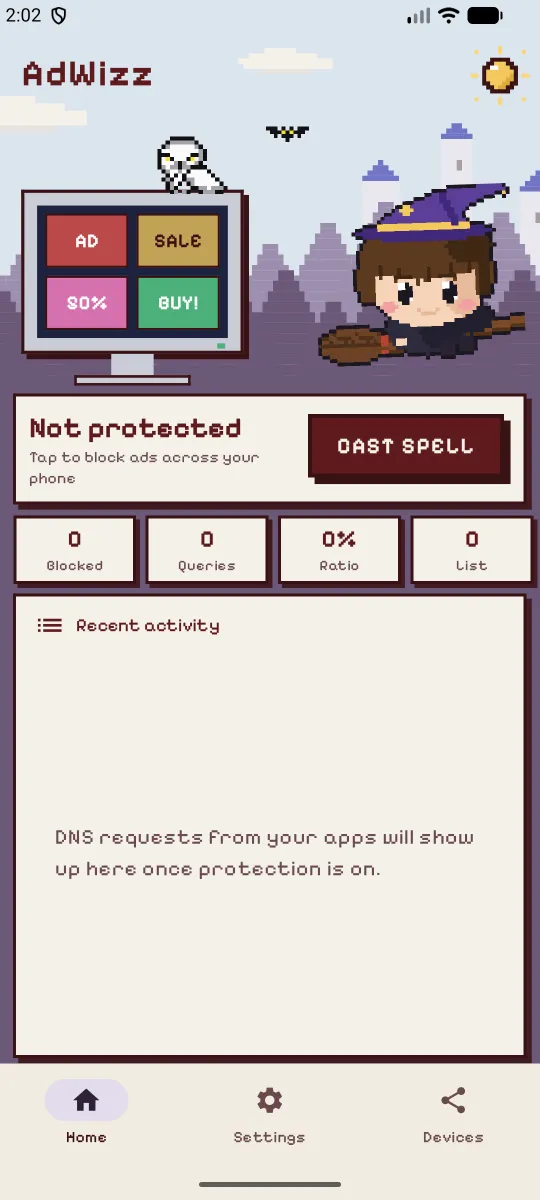
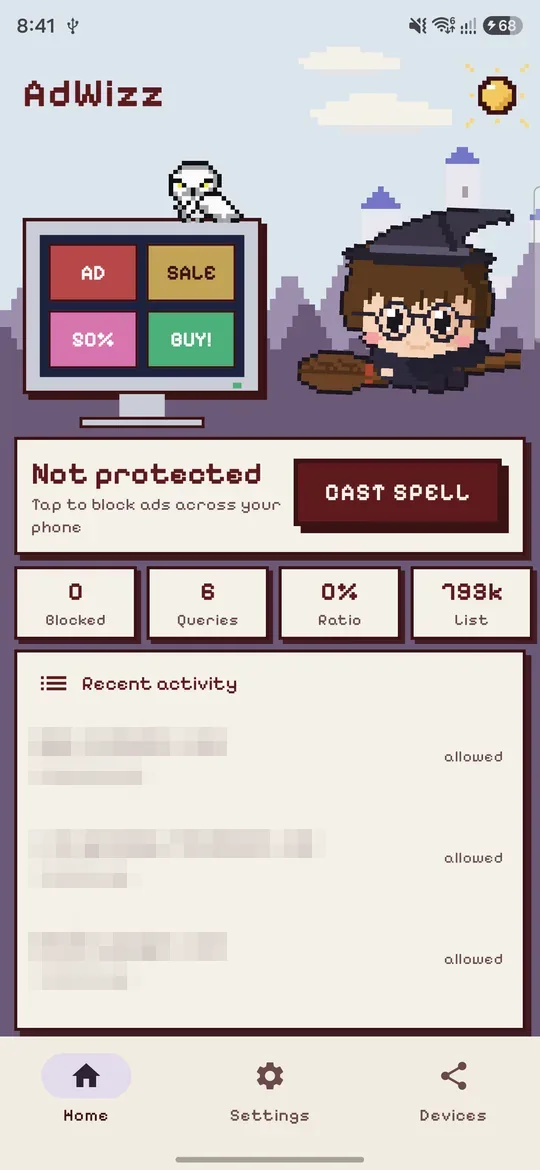
Remove Performance Monitoring, refresh screenshots, bump to 1.3.0
- Drop Firebase Performance: release APK 2.14 MB -> 1.93 MB. Analytics and
  Crashlytics stay; privacy text updated.
- New screenshots from a Galaxy S24 Ultra with the new wizard; the Recent
  activity rows are pixelated so no real look-ups are published. The capture
  script now uses the bottom bar and also takes the Reels & Shorts shot.

diff --git a/docs/index.html b/docs/index.html
@@ -30,7 +30,7 @@
   <meta name="twitter:image" content="https://chiragkushwaha.github.io/AdWizz/img/og.png">
   <link rel="manifest" href="manifest.webmanifest">
   <link rel="preload" href="fonts/pixelify-sans.woff2" as="font" type="font/woff2" crossorigin>
-  <script type="application/ld+json">[{"@context":"https://schema.org","@type":"SoftwareApplication","name":"AdWizz","description":"Free ad blocker for Android that blocks ads, pop-ups, redirects and trackers in every app using an on-device DNS filter, with an optional Instagram Reels and YouTube Shorts blocker. No root needed.","applicationCategory":"UtilitiesApplication","applicationSubCategory":"Ad blocker","operatingSystem":"Android 7.0 or later","url":"https://chiragkushwaha.github.io/AdWizz/","downloadUrl":"https://github.com/ChiragKushwaha/AdWizz/releases/latest/download/AdWizz.apk","installUrl":"https://github.com/ChiragKushwaha/AdWizz/releases/latest/download/AdWizz.apk","fileSize":"2 MB","softwareVersion":"1.2.1","image":"https://chiragkushwaha.github.io/AdWizz/img/og.png","screenshot":["https://chiragkushwaha.github.io/AdWizz/screenshots/home-light.webp","https://chiragkushwaha.github.io/AdWizz/screenshots/spell.webp","https://chiragkushwaha.github.io/AdWizz/screenshots/home-dark.webp","https://chiragkushwaha.github.io/AdWizz/screenshots/settings.webp","https://chiragkushwaha.github.io/AdWizz/screenshots/focus.webp","https://chiragkushwaha.github.io/AdWizz/screenshots/devices.webp"],"offers":{"@type":"Offer","price":"0","priceCurrency":"USD"},"author":{"@type":"Person","name":"Chirag Kushwaha","url":"https://github.com/ChiragKushwaha"},"license":"https://github.com/ChiragKushwaha/AdWizz/blob/main/LICENSE","isAccessibleForFree":true,"codeRepository":"https://github.com/ChiragKushwaha/AdWizz","keywords":"ad blocker for Android, block ads in apps, no root ad blocker, DNS ad blocker, pop-up blocker, tracker blocker, block Instagram Reels, block YouTube Shorts"},{"@context":"https://schema.org","@type":"FAQPage","mainEntity":[{"@type":"Question","name":"Why isn't it on the Play Store?","acceptedAnswer":{"@type":"Answer","text":"Google Play doesn't allow apps that block ads in other apps. That's why ad blockers like this are distributed directly. Every release here is built from the open-source code on GitHub and signed with the same key, and Android refuses updates signed by anyone else."}},{"@type":"Question","name":"It says \"App not installed\"","acceptedAnswer":{"@type":"Answer","text":"Your phone already has a copy of AdWizz signed with a different key, usually a test build. Uninstall it first (Settings → Apps → AdWizz → Uninstall), then open the downloaded APK again. You only need to do this once; later updates install normally."}},{"@type":"Question","name":"Is it really a VPN? Does my traffic go somewhere?","acceptedAnswer":{"@type":"Answer","text":"It uses Android's VPN feature only to see DNS look-ups (the \"phone book\" of the internet) on your own device. Ad and tracker names get a \"doesn't exist\" answer; everything else goes straight to your chosen DNS server. Your browsing never passes through anyone else's server."}},{"@type":"Question","name":"Why do some YouTube, Instagram or Prime Video ads still show?","acceptedAnswer":{"@type":"Answer","text":"Those ads come from the same servers as the videos and posts themselves (streaming apps like Prime Video and JioHotstar stitch the ad into the video stream), so blocking them would break the app. Every DNS-based blocker has this limit. AdWizz already blocks their separate ad and tracking servers."}},{"@type":"Question","name":"Why is there an empty space where an ad was?","acceptedAnswer":{"@type":"Answer","text":"The app reserved room for the ad before trying to load it. AdWizz stops the ad from arriving, but it can't change another app's layout, so some apps leave the gap."}},{"@type":"Question","name":"How does the Reels & Shorts blocker work?","acceptedAnswer":{"@type":"Answer","text":"Reels and Shorts come from the same servers as the rest of Instagram and YouTube, so DNS can't block them. Instead, a small add-on, AdWizz Reels Blocker, uses Android's Accessibility service to check which screen those apps are showing and presses Back when it's a short-video player. AdWizz installs it for you when you turn the switch on. It's a separate app because Google Play Protect blocks downloaded apps that can use Accessibility, and this way AdWizz itself installs normally. If Play Protect blocks the add-on, AdWizz shows how to install it. It only watches those apps, doesn't read what's on screen, and keeps nothing."}},{"@type":"Question","name":"Ads still show in my browser","acceptedAnswer":{"@type":"Answer","text":"Check that Android's Private DNS is set to Off or Automatic, and that Chrome's \"Use secure DNS\" isn't set to a custom provider. AdWizz shows a warning if Private DNS is bypassing it."}},{"@type":"Question","name":"Can it protect devices on my hotspot?","acceptedAnswer":{"@type":"Answer","text":"Android never routes hotspot traffic through a VPN, but AdWizz's Devices screen shows a QR code that sets up ad-blocking DNS on iPhones, Macs and other devices in a few taps."}}]},{"@context":"https://schema.org","@type":"WebSite","name":"AdWizz","url":"https://chiragkushwaha.github.io/AdWizz/"}]</script>
+  <script type="application/ld+json">[{"@context":"https://schema.org","@type":"SoftwareApplication","name":"AdWizz","description":"Free ad blocker for Android that blocks ads, pop-ups, redirects and trackers in every app using an on-device DNS filter, with an optional Instagram Reels and YouTube Shorts blocker. No root needed.","applicationCategory":"UtilitiesApplication","applicationSubCategory":"Ad blocker","operatingSystem":"Android 7.0 or later","url":"https://chiragkushwaha.github.io/AdWizz/","downloadUrl":"https://github.com/ChiragKushwaha/AdWizz/releases/latest/download/AdWizz.apk","installUrl":"https://github.com/ChiragKushwaha/AdWizz/releases/latest/download/AdWizz.apk","fileSize":"2 MB","softwareVersion":"1.3.0","image":"https://chiragkushwaha.github.io/AdWizz/img/og.png","screenshot":["https://chiragkushwaha.github.io/AdWizz/screenshots/home-light.webp","https://chiragkushwaha.github.io/AdWizz/screenshots/spell.webp","https://chiragkushwaha.github.io/AdWizz/screenshots/home-dark.webp","https://chiragkushwaha.github.io/AdWizz/screenshots/settings.webp","https://chiragkushwaha.github.io/AdWizz/screenshots/focus.webp","https://chiragkushwaha.github.io/AdWizz/screenshots/devices.webp"],"offers":{"@type":"Offer","price":"0","priceCurrency":"USD"},"author":{"@type":"Person","name":"Chirag Kushwaha","url":"https://github.com/ChiragKushwaha"},"license":"https://github.com/ChiragKushwaha/AdWizz/blob/main/LICENSE","isAccessibleForFree":true,"codeRepository":"https://github.com/ChiragKushwaha/AdWizz","keywords":"ad blocker for Android, block ads in apps, no root ad blocker, DNS ad blocker, pop-up blocker, tracker blocker, block Instagram Reels, block YouTube Shorts"},{"@context":"https://schema.org","@type":"FAQPage","mainEntity":[{"@type":"Question","name":"Why isn't it on the Play Store?","acceptedAnswer":{"@type":"Answer","text":"Google Play doesn't allow apps that block ads in other apps. That's why ad blockers like this are distributed directly. Every release here is built from the open-source code on GitHub and signed with the same key, and Android refuses updates signed by anyone else."}},{"@type":"Question","name":"It says \"App not installed\"","acceptedAnswer":{"@type":"Answer","text":"Your phone already has a copy of AdWizz signed with a different key, usually a test build. Uninstall it first (Settings → Apps → AdWizz → Uninstall), then open the downloaded APK again. You only need to do this once; later updates install normally."}},{"@type":"Question","name":"Is it really a VPN? Does my traffic go somewhere?","acceptedAnswer":{"@type":"Answer","text":"It uses Android's VPN feature only to see DNS look-ups (the \"phone book\" of the internet) on your own device. Ad and tracker names get a \"doesn't exist\" answer; everything else goes straight to your chosen DNS server. Your browsing never passes through anyone else's server."}},{"@type":"Question","name":"Why do some YouTube, Instagram or Prime Video ads still show?","acceptedAnswer":{"@type":"Answer","text":"Those ads come from the same servers as the videos and posts themselves (streaming apps like Prime Video and JioHotstar stitch the ad into the video stream), so blocking them would break the app. Every DNS-based blocker has this limit. AdWizz already blocks their separate ad and tracking servers."}},{"@type":"Question","name":"Why is there an empty space where an ad was?","acceptedAnswer":{"@type":"Answer","text":"The app reserved room for the ad before trying to load it. AdWizz stops the ad from arriving, but it can't change another app's layout, so some apps leave the gap."}},{"@type":"Question","name":"How does the Reels & Shorts blocker work?","acceptedAnswer":{"@type":"Answer","text":"Reels and Shorts come from the same servers as the rest of Instagram and YouTube, so DNS can't block them. Instead, a small add-on, AdWizz Reels Blocker, uses Android's Accessibility service to check which screen those apps are showing and presses Back when it's a short-video player. AdWizz installs it for you when you turn the switch on. It's a separate app because Google Play Protect blocks downloaded apps that can use Accessibility, and this way AdWizz itself installs normally. If Play Protect blocks the add-on, AdWizz shows how to install it. It only watches those apps, doesn't read what's on screen, and keeps nothing."}},{"@type":"Question","name":"Ads still show in my browser","acceptedAnswer":{"@type":"Answer","text":"Check that Android's Private DNS is set to Off or Automatic, and that Chrome's \"Use secure DNS\" isn't set to a custom provider. AdWizz shows a warning if Private DNS is bypassing it."}},{"@type":"Question","name":"Can it protect devices on my hotspot?","acceptedAnswer":{"@type":"Answer","text":"Android never routes hotspot traffic through a VPN, but AdWizz's Devices screen shows a QR code that sets up ad-blocking DNS on iPhones, Macs and other devices in a few taps."}}]},{"@context":"https://schema.org","@type":"WebSite","name":"AdWizz","url":"https://chiragkushwaha.github.io/AdWizz/"}]</script>
   <style>@font-face{font-family:"Pixelify Sans";font-style:normal;font-weight:400 700;font-display:swap;src:url(fonts/pixelify-sans.woff2) format("woff2")}:root{--sky:#dce5ee;--cloud:#f4f1ea;--panel:#f4f1ea;--ink:#3a1215;--text:#3a1215;--muted:#6a4a4d;--primary:#5e1a1d;--on-primary:#f4f1ea;--trees:#6b5878;--trees-far:#9c8fae;--star:transparent}@media (prefers-color-scheme:dark){:root:not([data-theme="light"]){--sky:#121733;--cloud:#262d58;--panel:#1d2347;--ink:#070914;--text:#f1e9da;--muted:#b8b3cc;--primary:#f2c14e;--on-primary:#2a1a05;--trees:#241e38;--trees-far:#35304f;--star:#f4e3a1}}:root[data-theme="dark"]{--sky:#121733;--cloud:#262d58;--panel:#1d2347;--ink:#070914;--text:#f1e9da;--muted:#b8b3cc;--primary:#f2c14e;--on-primary:#2a1a05;--trees:#241e38;--trees-far:#35304f;--star:#f4e3a1}*{box-sizing:border-box}html{scroll-behavior:smooth}body{margin:0;background:var(--sky);color:var(--text);font:17px/1.55 "Pixelify Sans",system-ui,sans-serif;-webkit-font-smoothing:none;overflow-x:hidden}a{color:var(--primary)}h1,h2,h3{line-height:1.1;margin:0 0 .5em}h2{font-size:clamp(26px,6vw,38px);color:var(--primary)}main,.top,footer{max-width:1040px;margin:0 auto;padding:0 16px;position:relative}section{margin:56px 0}.sky{position:fixed;inset:0;z-index:-1;pointer-events:none;background:var(--sky)}.cloud{position:absolute;width:120px;height:24px;background:var(--cloud);box-shadow:16px -12px 0 var(--cloud),48px -20px 0 var(--cloud),80px -10px 0 var(--cloud);animation:drift 60s linear infinite}.c1{top:12%;left:-10%}.c2{top:34%;left:30%;animation-duration:80s;transform:scale(.8)}.c3{top:58%;left:65%;animation-duration:70s}@keyframes drift{from{translate:-20vw 0}to{translate:120vw 0}}.stars{position:absolute;inset:0 0 40% 0;background-image:radial-gradient(var(--star) 1.5px,transparent 2px),radial-gradient(var(--star) 1.5px,transparent 2px);background-size:97px 113px,151px 89px;background-position:13px 7px,61px 41px}.top{display:flex;align-items:center;gap:16px;padding-top:18px;padding-bottom:8px}.brand{font-weight:700;font-size:30px;color:var(--primary);text-decoration:none}nav{display:flex;gap:18px;margin-left:auto}nav a{color:var(--text);text-decoration:none;text-transform:uppercase;font-weight:600;font-size:15px}nav a:hover{color:var(--primary)}.celestial{width:44px;height:44px;border:0;cursor:pointer;background:center / contain no-repeat;background-image:radial-gradient(circle,#f4c95d 42%,#3a1215 43% 50%,transparent 51%)}.celestial.night{background-image:radial-gradient(circle at 62% 38%,var(--sky) 38%,transparent 39%),radial-gradient(circle,#f4e9c8 50%,transparent 51%)}.hero{display:grid;grid-template-columns:1.1fr 1fr;align-items:center;gap:24px;margin-top:24px}h1{font-size:clamp(56px,14vw,120px);color:var(--primary);letter-spacing:2px;text-shadow:4px 4px 0 var(--ink)}:root[data-theme="dark"] h1{text-shadow:4px 4px 0 #000}.tag{font-size:clamp(19px,4.6vw,24px);font-weight:600;margin:0 0 6px}.sub,.meta,.note,.small{color:var(--muted)}.meta{font-size:15px}.cta{display:flex;align-items:center;gap:18px;flex-wrap:wrap;margin:22px 0 10px}.wizard{width:100%;height:auto;image-rendering:pixelated;animation:bob 2.8s ease-in-out infinite}@keyframes bob{50%{transform:translateY(-10px) rotate(-1.5deg)}}.pixel-btn{display:inline-block;background:var(--primary);color:var(--on-primary);text-decoration:none;font-weight:700;font-size:20px;text-transform:uppercase;letter-spacing:1px;padding:14px 26px;border:3px solid var(--ink);box-shadow:6px 6px 0 var(--ink);transition:transform .08s,box-shadow .08s}.pixel-btn:active{transform:translate(5px,5px);box-shadow:1px 1px 0 var(--ink)}.link{font-weight:600}.panel{background:var(--panel);border:2px solid var(--ink);box-shadow:5px 5px 0 var(--ink);padding:18px}.qr-card{display:flex;gap:18px;align-items:center;max-width:560px}.qr-card img{image-rendering:pixelated;border:2px solid var(--ink)}.grid{display:grid;grid-template-columns:repeat(auto-fit,minmax(240px,1fr));gap:20px}.grid h3{color:var(--primary)}.grid p,details p{margin:0;color:var(--muted)}.shots{display:flex;gap:22px;overflow-x:auto;scroll-snap-type:x mandatory;padding:6px 6px 18px}.shots figure{margin:0;flex:0 0 auto;scroll-snap-align:center;text-align:center}.shots img{width:240px;height:auto;border:3px solid var(--ink);box-shadow:6px 6px 0 var(--ink);border-radius:18px;display:block}.shots figcaption{margin-top:12px;font-weight:600}.steps{list-style:none;padding:0;display:grid;grid-template-columns:repeat(auto-fit,minmax(220px,1fr));gap:20px}.steps li{display:flex;gap:14px;align-items:flex-start}.steps li>b{font-size:30px;color:var(--primary);line-height:1}.steps p{margin:0}details{margin-bottom:14px}summary{cursor:pointer;font-weight:700;font-size:18px}details p{margin-top:10px}footer{text-align:center;padding-top:140px;padding-bottom:28px;position:relative;max-width:none;color:var(--on-forest,#f4f1ea)}footer::before{content:"";position:absolute;inset:0;z-index:-1;background:var(--trees);clip-path:polygon(0 30%,3% 8%,6% 30%,9% 0,12% 30%,15% 12%,18% 30%,21% 2%,24% 30%,27% 10%,30% 30%,33% 0,36% 30%,39% 14%,42% 30%,45% 4%,48% 30%,51% 10%,54% 30%,57% 0,60% 30%,63% 12%,66% 30%,69% 3%,72% 30%,75% 9%,78% 30%,81% 0,84% 30%,87% 12%,90% 30%,93% 5%,96% 30%,100% 10%,100% 100%,0 100%)}footer a{color:#f4c95d}footer .small{color:#e6dff0}.small{font-size:14px}@media (max-width:760px){nav{display:none}.celestial{margin-left:auto}.hero{grid-template-columns:1fr;text-align:center}.hero .cta{justify-content:center}.wizard{max-width:300px;margin:0 auto;order:-1}.qr-card{display:none}section{margin:44px 0}}@media (prefers-reduced-motion:reduce){.cloud,.wizard{animation:none}}.skip{position:absolute;left:-9999px;top:8px;z-index:10;background:var(--panel);color:var(--text);padding:8px 14px;border:2px solid var(--ink)}.skip:focus{left:8px}h1 span{display:block;font-size:clamp(22px,5.4vw,32px);letter-spacing:0;text-shadow:none;margin-top:10px;color:var(--text)}.lead{font-size:18px;max-width:760px}.shots:focus-visible,a:focus-visible,button:focus-visible,summary:focus-visible{outline:3px solid var(--primary);outline-offset:3px}.qr-h{font-size:20px;color:var(--text)}</style>
   <script>
     // Apply a saved theme before first paint (no flash).
@@ -135,7 +135,7 @@
     <section id="privacy" class="panel privacy">
       <h2>Privacy</h2>
       <p>AdWizz has no account and no servers of its own. The list of blocked and allowed domains is kept only in memory on your phone, and your browsing and DNS look-ups are never sent anywhere. It downloads public blocklists and checks this site for updates.</p>
-      <p>To find bugs and learn how the app is used, AdWizz sends anonymous usage statistics, crash reports and performance data (such as app opens, start-up time and the device model) to Google Firebase. It never sends the sites or apps you use, and the advertising ID is turned off.</p>
+      <p>To find bugs and learn how the app is used, AdWizz sends anonymous usage statistics and crash reports (such as app opens, the app version and the device model) to Google Firebase. It never sends the sites or apps you use, and the advertising ID is turned off.</p>
     </section>
   </main>
 

diff --git a/app/src/main/java/rocks/chirag/adwizz/data/Telemetry.kt b/app/src/main/java/rocks/chirag/adwizz/data/Telemetry.kt
@@ -5,11 +5,10 @@ import android.os.Bundle
 import android.util.Log
 import com.google.firebase.analytics.FirebaseAnalytics
 import com.google.firebase.crashlytics.FirebaseCrashlytics
-import com.google.firebase.perf.FirebasePerformance
 
 /**
- * One place for Firebase: Analytics events (shown live in the Realtime / DebugView reports),
- * Crashlytics context and Performance traces. Release Monitoring in the console is built from
+ * One place for Firebase: Analytics events (shown live in the Realtime / DebugView reports)
+ * and Crashlytics context. Release Monitoring in the console is built from
  * Crashlytics + Analytics, so it needs nothing extra here.
  *
  * Privacy: never pass domain names, app names or anything the user browsed — only counts,
@@ -40,15 +39,6 @@ object Telemetry {
     /** Something went wrong but the app recovered: report it without crashing. */
     fun nonFatal(error: Throwable) = safely { FirebaseCrashlytics.getInstance().recordException(error) }
 
-    /** Times [block] as a Performance Monitoring custom trace named [name]. */
-    inline fun <T> trace(name: String, block: () -> T): T {
-        val trace = runCatching { FirebasePerformance.getInstance().newTrace(name).also { it.start() } }.getOrNull()
-        try {
-            return block()
-        } finally {
-            runCatching { trace?.stop() }
-        }
-    }
 
     private inline fun safely(block: () -> Unit) {
         try { block() } catch (e: Throwable) { Log.d(TAG, "Telemetry skipped: ${e.message}") }

diff --git a/app/src/main/java/rocks/chirag/adwizz/vpn/AdBlockVpnService.kt b/app/src/main/java/rocks/chirag/adwizz/vpn/AdBlockVpnService.kt
@@ -56,7 +56,7 @@ class AdBlockVpnService : VpnService() {
         VpnNotification.showForeground(this, ACTION_STOP)
         Thread {
             try {
-                Telemetry.trace("vpn_start") { reloadConfig(); establish() }
+                reloadConfig(); establish()
                 Telemetry.event(this, "protection_on", "list_size" to matcher.size())
                 network = NetworkWatcher(getSystemService(ConnectivityManager::class.java)) { upstream.refreshNetworkDns(it) }
                 maintenance = Maintenance(applicationContext, repo, ::reloadConfig).also { it.start() }

diff --git a/app/src/main/java/rocks/chirag/adwizz/data/BlocklistRepository.kt b/app/src/main/java/rocks/chirag/adwizz/data/BlocklistRepository.kt
@@ -33,7 +33,7 @@ class BlocklistRepository(context: Context) {
             System.currentTimeMillis() - settings.lastListUpdate > STALE_MS
 
     /** Builds a matcher from everything available on disk. Safe to call from any background thread. */
-    fun buildMatcher(): DomainMatcher = Telemetry.trace("blocklist_load") { loadMatcher() }
+    fun buildMatcher(): DomainMatcher = loadMatcher()
 
     private fun loadMatcher(): DomainMatcher {
         // Sized for ~1M domains up front so big lists load without rehashing.

diff --git a/README.md b/README.md
@@ -110,8 +110,7 @@ No magic, just DNS. AdWizz runs a *local* VPN that only carries DNS look-ups, so
 No account, no servers of our own, and your browsing and DNS look-ups never leave your phone: the
 list of what was blocked lives only in your phone's memory. AdWizz talks to the DNS server you choose,
 the public blocklist mirrors, this repo's website (to check for updates), and Google Firebase for
-anonymous usage statistics, crash reports and performance data (app opens, start-up time, device
-model). It never sends the sites or apps you use, and the advertising ID is turned off.
+anonymous usage statistics and crash reports (app opens, app version, device model). It never sends the sites or apps you use, and the advertising ID is turned off.
 The optional Reels & Shorts blocker only looks at Instagram, YouTube and short-video apps, only
 checks which screen is open (not what's on it), and keeps nothing.
 
